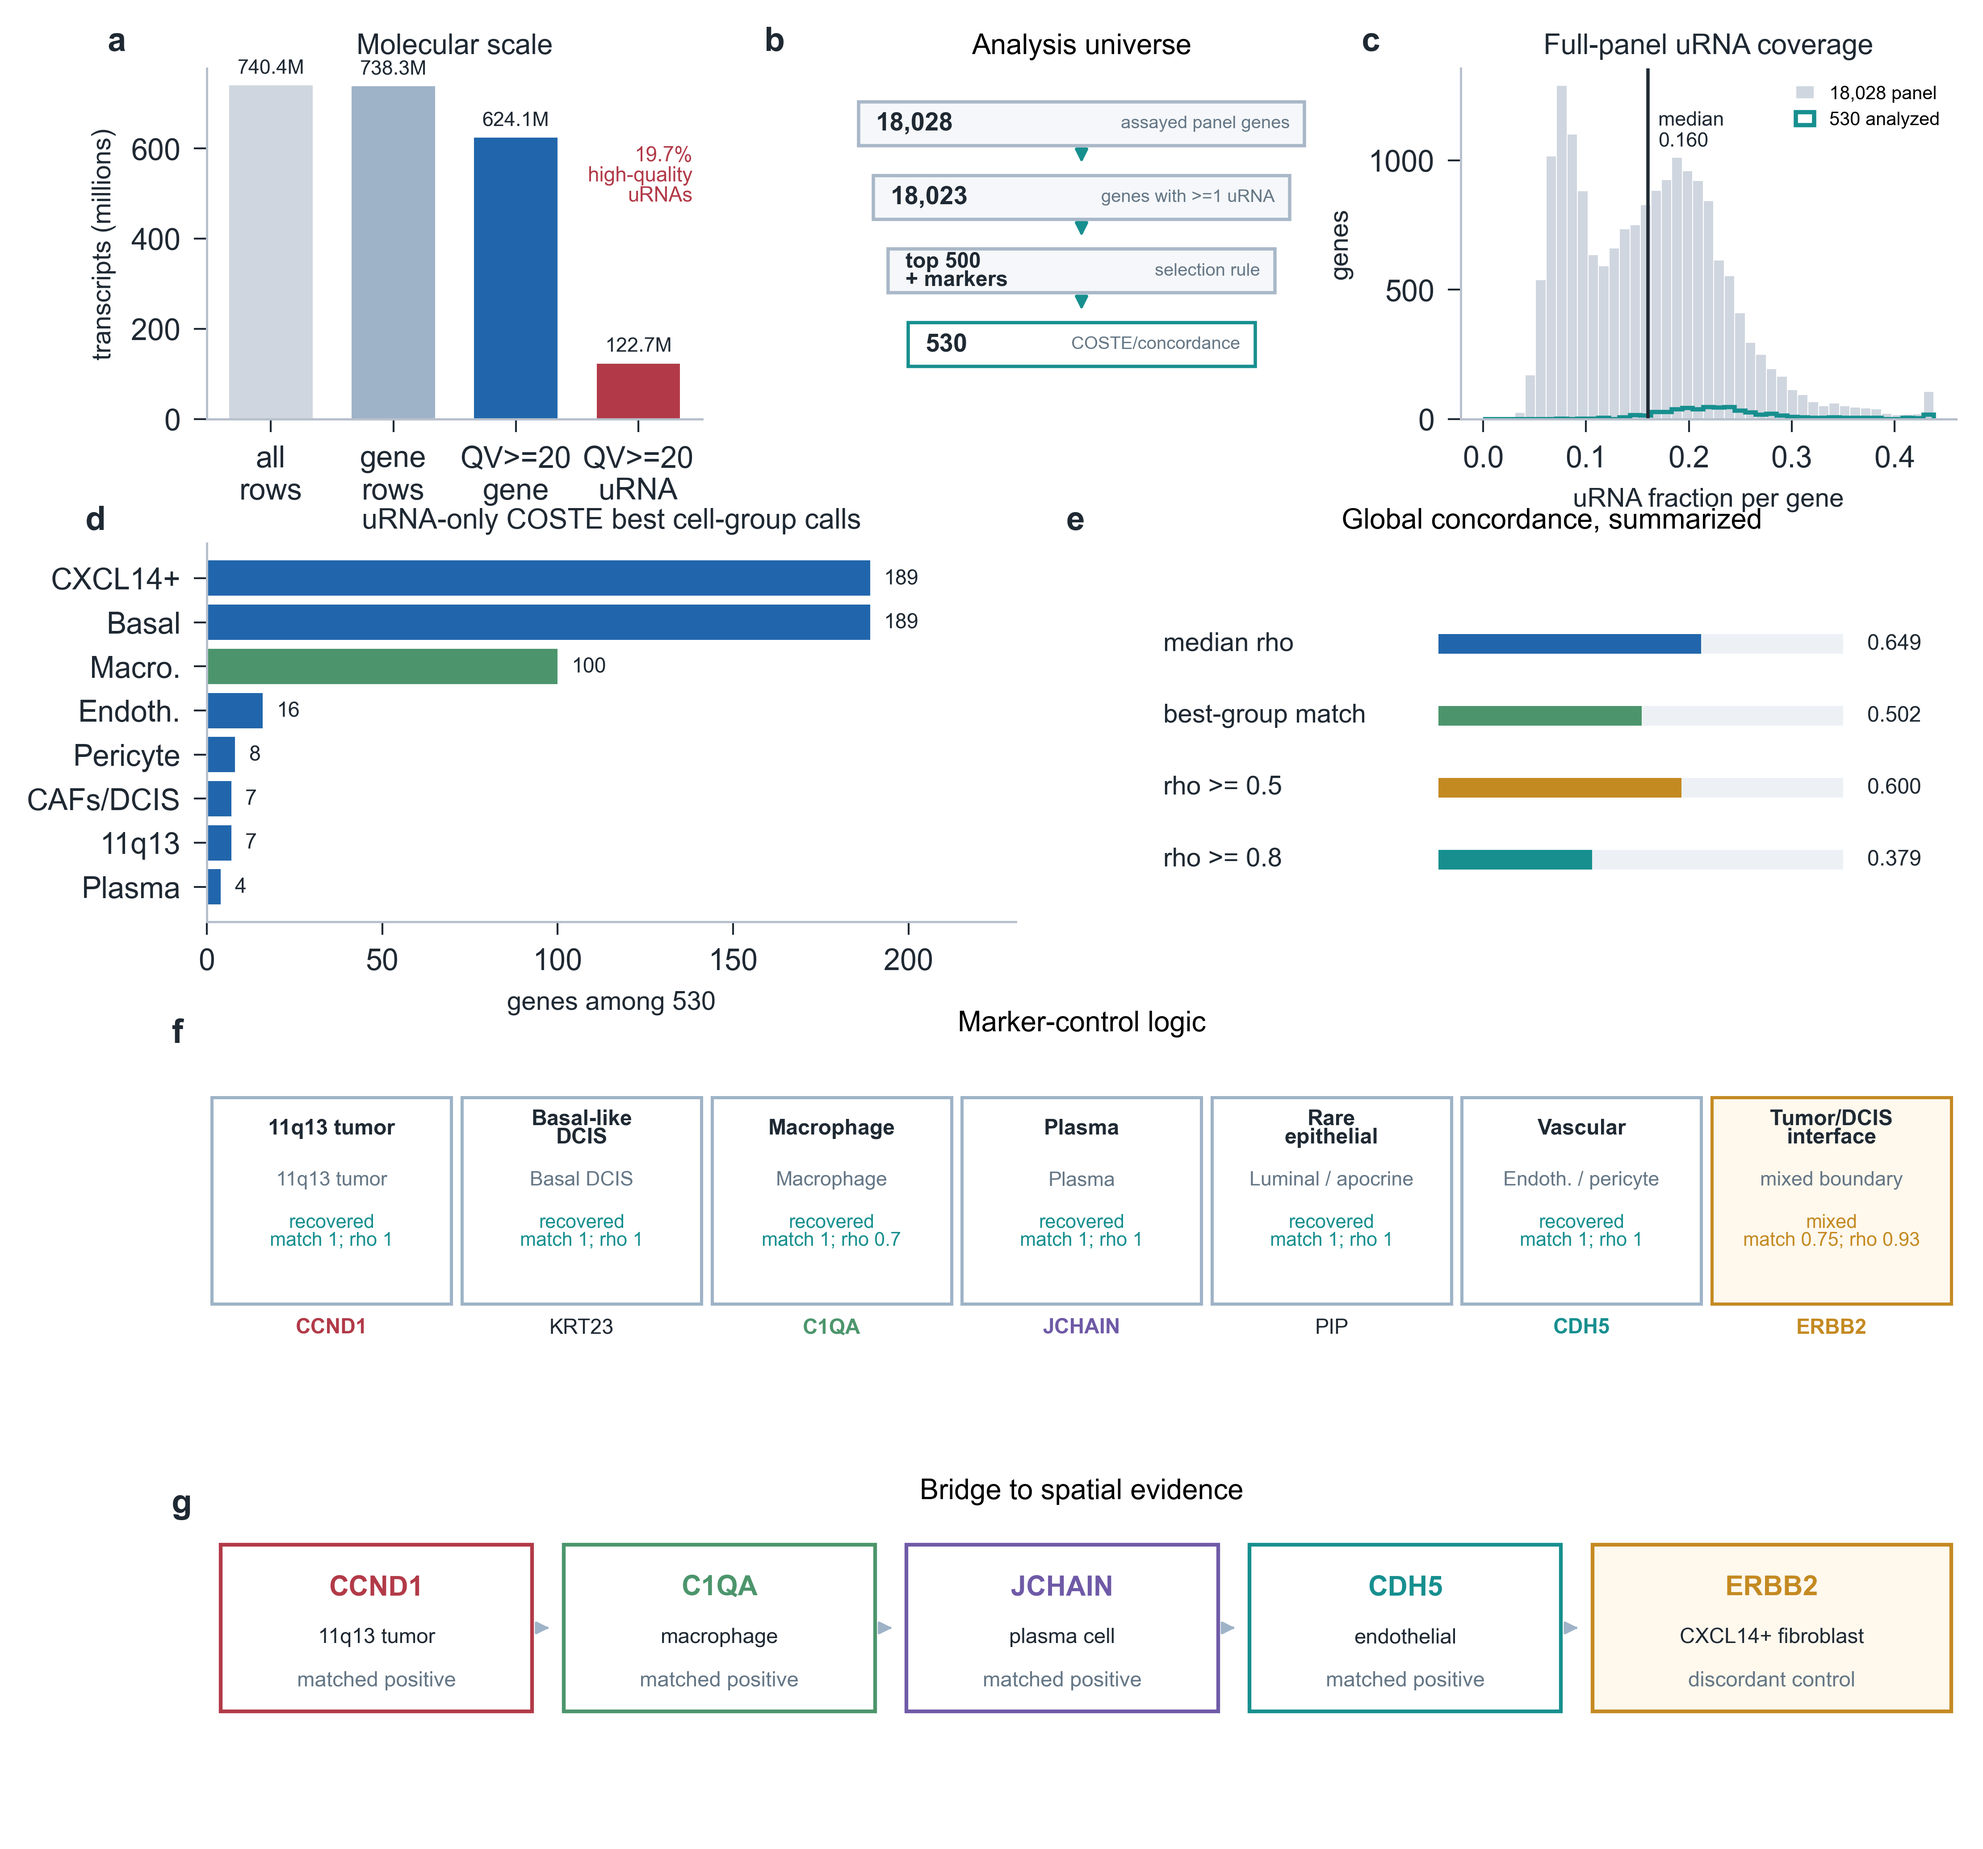
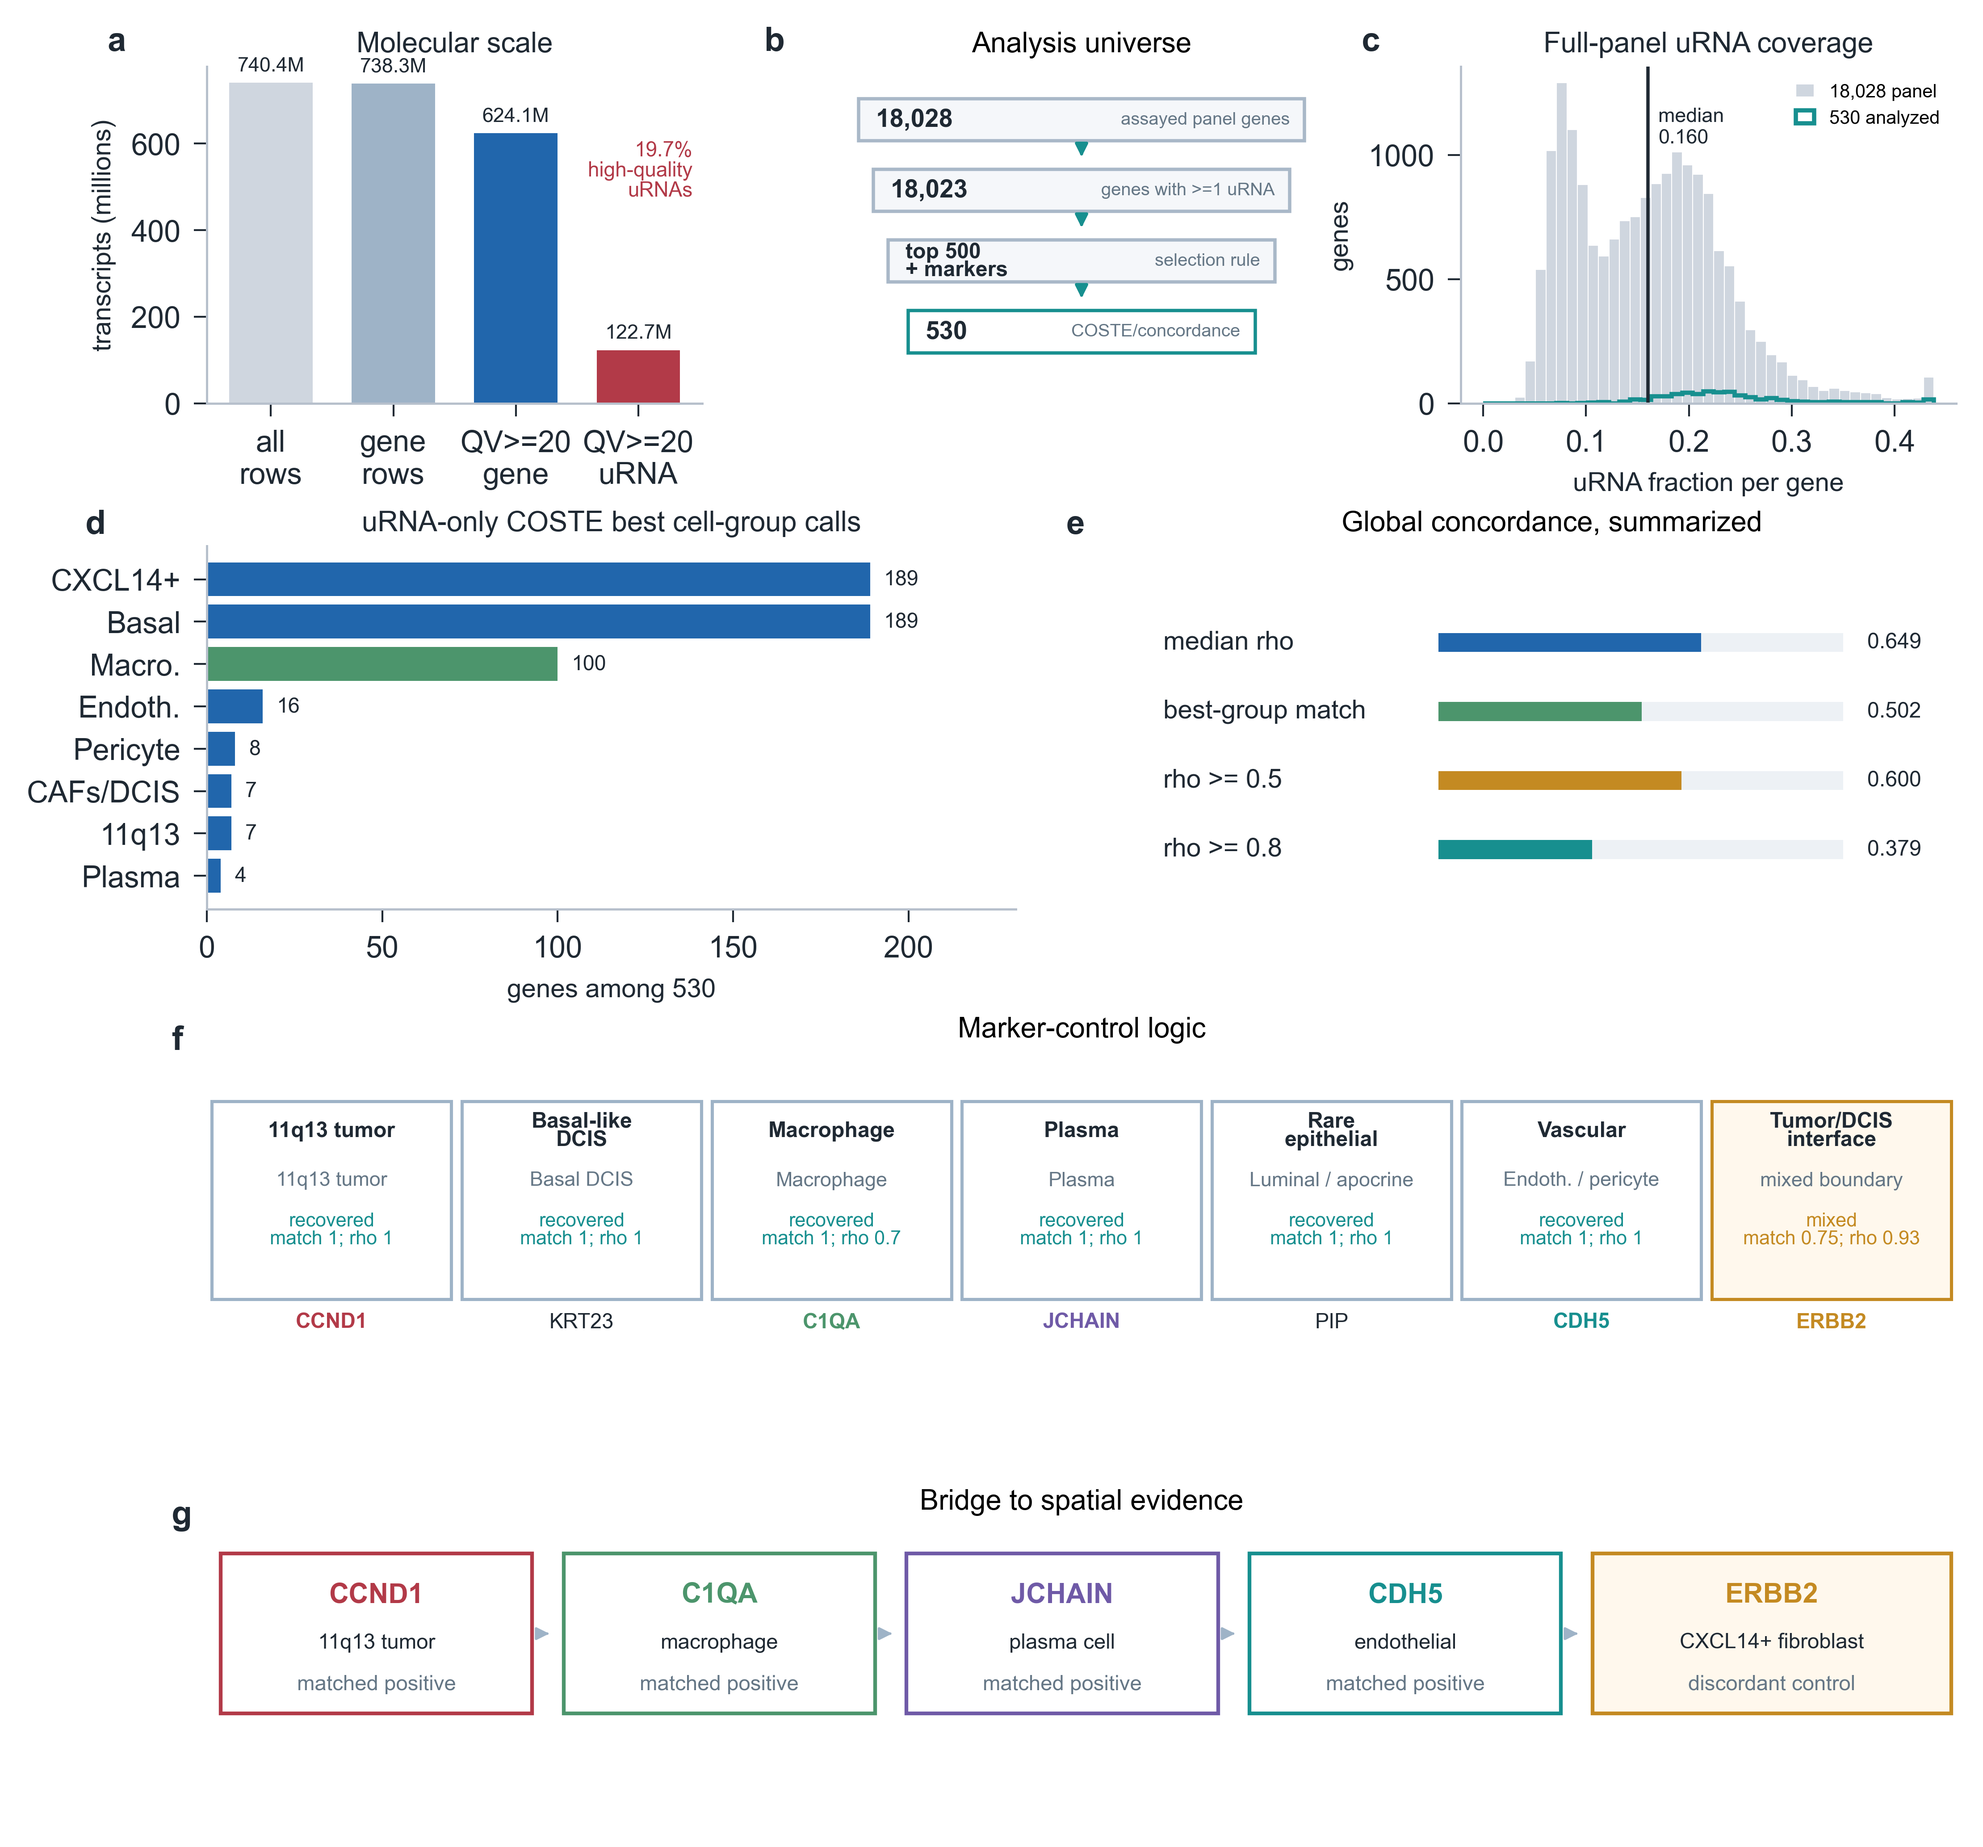
Align Figure 1 lower panels

diff --git a/manuscripts/atera_urna_nature_methods/make_manuscript_assets.py b/manuscripts/atera_urna_nature_methods/make_manuscript_assets.py
@@ -691,7 +691,7 @@ def figure_combined_lead_in(metadata, counts, summary, overall, cluster_counts):
         6,
         figure=fig,
         height_ratios=[1.0, 1.08, 0.98, 0.88],
-        hspace=0.36,
+        hspace=0.43,
         wspace=0.72,
     )
 
@@ -864,7 +864,7 @@ def figure_combined_lead_in(metadata, counts, summary, overall, cluster_counts):
 
     ax = fig.add_subplot(gs[2, :])
     pos = ax.get_position()
-    ax.set_position([pos.x0 - 0.020, pos.y0 + 0.006, pos.width + 0.030, pos.height + 0.010])
+    ax.set_position([pos.x0 - 0.040, pos.y0 + 0.006, pos.width + 0.050, pos.height + 0.010])
     ax.set_axis_off()
     ax.set_xlim(0, 1)
     ax.set_ylim(0, 1)
@@ -937,7 +937,7 @@ def figure_combined_lead_in(metadata, counts, summary, overall, cluster_counts):
 
     ax = fig.add_subplot(gs[3, :])
     pos = ax.get_position()
-    ax.set_position([pos.x0 - 0.020, pos.y0 + 0.032, pos.width + 0.030, pos.height + 0.004])
+    ax.set_position([pos.x0 - 0.040, pos.y0 + 0.032, pos.width + 0.050, pos.height + 0.004])
     ax.set_axis_off()
     ax.set_xlim(0, 1)
     ax.set_ylim(0, 1)
